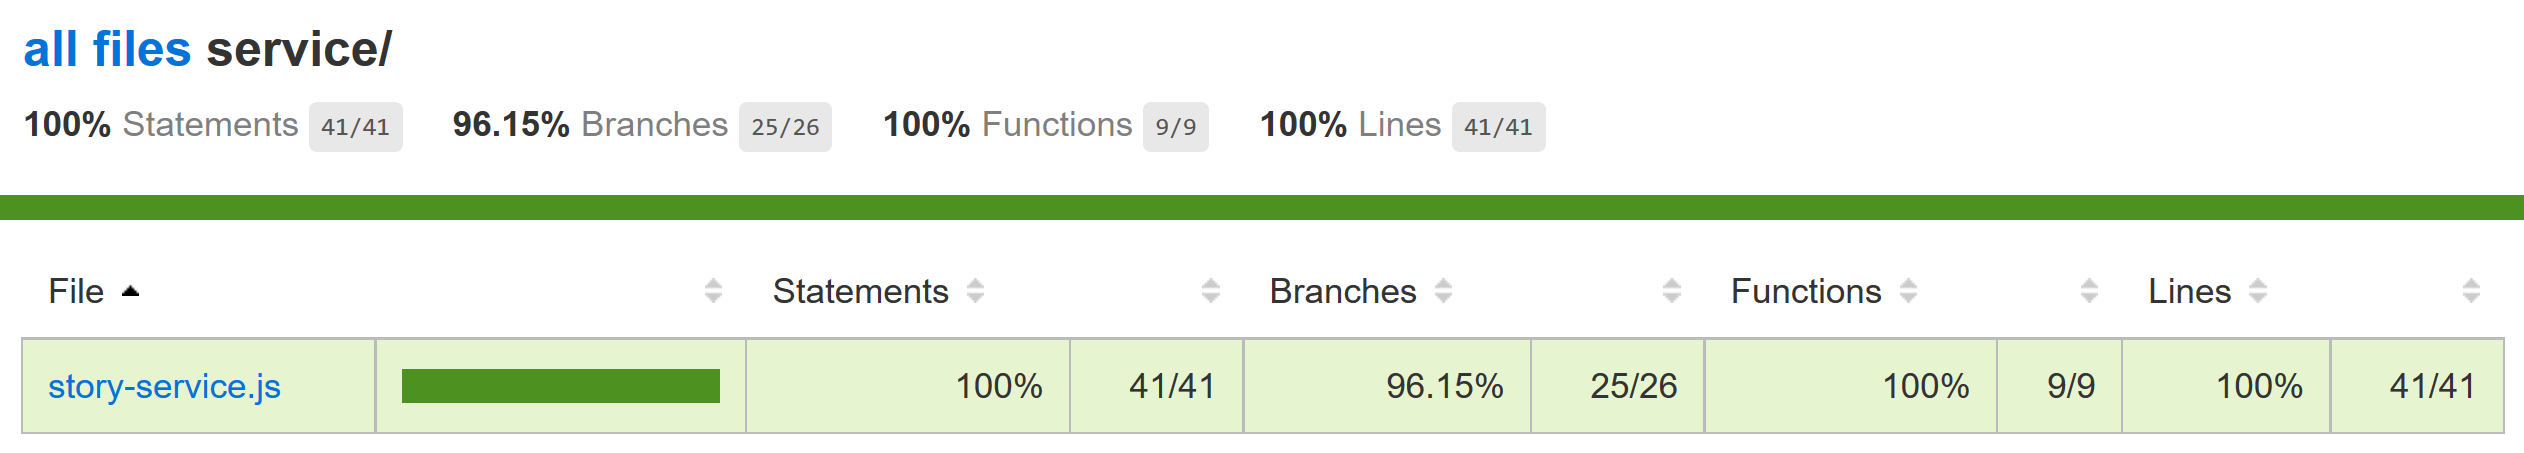
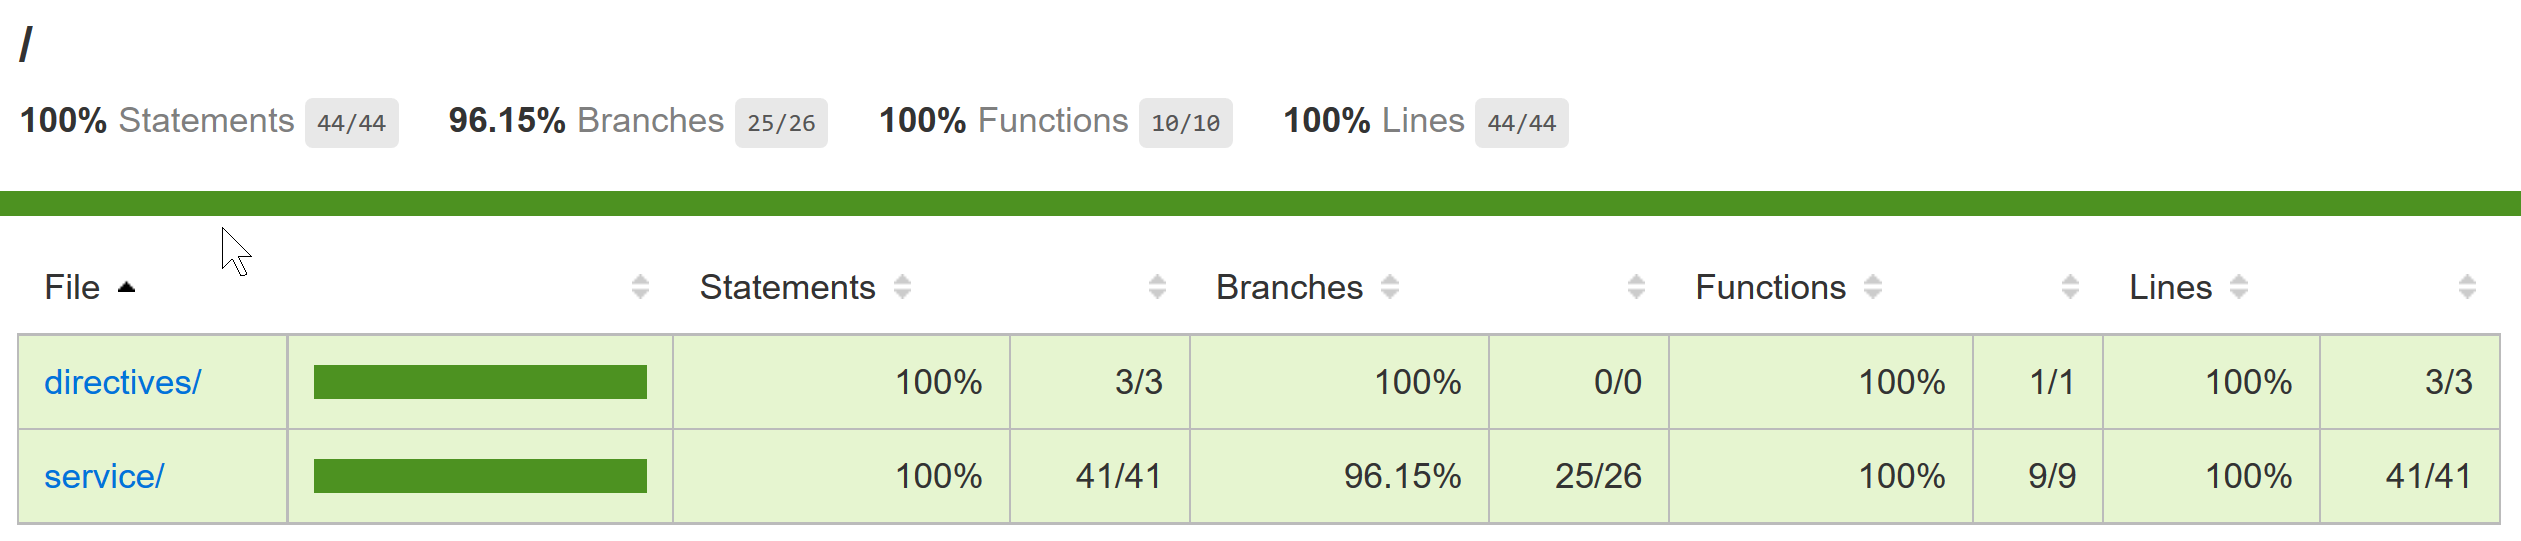
unittests for story header directive added.

diff --git a/test/story-header.spec.js b/test/story-header.spec.js
@@ -1,0 +1,60 @@
+'use strict';
+
+describe("Story Header Directive", function () {
+    var compile;
+    var scope;
+    
+    function compileElement(element) {
+        var compiledElement = compile(angular.element(element))(scope);
+        scope.$digest();
+        return compiledElement;
+    }
+    
+    beforeEach(module('ConceptDirectives'));
+    beforeEach(inject(function ($compile, $rootScope) {
+        compile = $compile;
+        scope = $rootScope.$new();
+        scope.reverseOrder = false;
+        scope.sortKey = "id";
+    }));
+
+    it("shows correctly the rendered directive for a story header for a title column", function() {
+        var html = '<th th-story title="Title" key="title" sort-key="sortKey" reverse-order="reverseOrder"></th>';
+        var compiledDirective = compileElement(html);
+        var isolatedScope = compiledDirective.isolateScope();
+        isolatedScope.title = "Title";
+        isolatedScope.key = "title";
+
+        // we expect to see the visual title
+        var expected = /.*Title<\/a>/;
+        expect(compiledDirective.html()).toMatch(expected);
+        // we expect to see click logic that does change to sortKey and does a reverse ordering.
+        expected = /ng-click="sortKey = key; reverseOrder = !reverseOrder"/;
+        expect(compiledDirective.html()).toMatch(expected);
+        // we expect to see show logic for the down key
+        expected = /<span ng-show="sortKey == key &amp;&amp; !reverseOrder" class="fa fa-caret-down/;
+        expect(compiledDirective.html()).toMatch(expected);
+        // we expect to see show logic for the up key
+        expected = /<span ng-show="sortKey == key &amp;&amp;  reverseOrder" class="fa fa-caret-up/;
+        expect(compiledDirective.html()).toMatch(expected);
+    });
+
+    it("does change correctly the sorting when clicking the title link", function() {
+        var html = '<th th-story title="Title" key="title" sort-key="sortKey" reverse-order="reverseOrder"></th>';
+        var compiledDirective = compileElement(html);
+        var isolatedScope = compiledDirective.isolateScope();
+        isolatedScope.title = "Title";
+        isolatedScope.key = "title";
+
+        var link = compiledDirective.find('a');
+        link.triggerHandler('click');
+        scope.$digest;
+        
+        expect(isolatedScope.sortKey).toBe('title');
+        expect(isolatedScope.reverseOrder).toBe(true);
+        // clicking the same column again does toggle reverse ordering
+        link.triggerHandler('click');
+        scope.$digest;
+        expect(isolatedScope.reverseOrder).toBe(false);
+    });
+});

diff --git a/Gruntfile.js b/Gruntfile.js
@@ -53,10 +53,11 @@ module.exports = function (grunt) {
                     , singleRun: true
                     , browsers: ['PhantomJS']
                     , files: [
-                        'lib/jquery/jquery.js'
+                        'lib/jquery/dist/jquery.js'
                         , 'lib/angularjs/angular.js'
                         , 'lib/angular-mocks/angular-mocks.js'
                         , 'service/story-service.js'
+                        , 'directives/story-header.js'
                         , 'test/*.spec.js'
                     ]
                     , reporters: ['mocha', 'coverage']

diff --git a/index.html b/index.html
@@ -7,7 +7,7 @@
         
         <!-- CSS -->
         <link rel="stylesheet" href="lib/bootstrap-css/css/bootstrap.min.css">
-        <link rel="stylesheet" href="lib/font-awesome/css/font-awesome.css">
+        <link rel="stylesheet" href="lib/bootstrap-theme.css/bootstrap-theme.css">
 
         <!-- Libraries -->
         <script type="text/javascript" src="lib/jquery/dist/jquery.js"></script>

diff --git a/README.md b/README.md
@@ -225,6 +225,7 @@ user/customer is detecting it. Some additions I made to the project with this se
  * Using **Karma** as test runner.
  * **Jasmine** and **PhantomJS** added for headless testing.
  * Added unittests for the story service (getState, getPercentageDone and getAverageComplexity).
+ * Added unittests for the story header directive.
  * HTML code coverage report added.
  * Using angular-mocks for testing the own AngularJS service.
  * JSHints added to have some Javascript checker in place.
